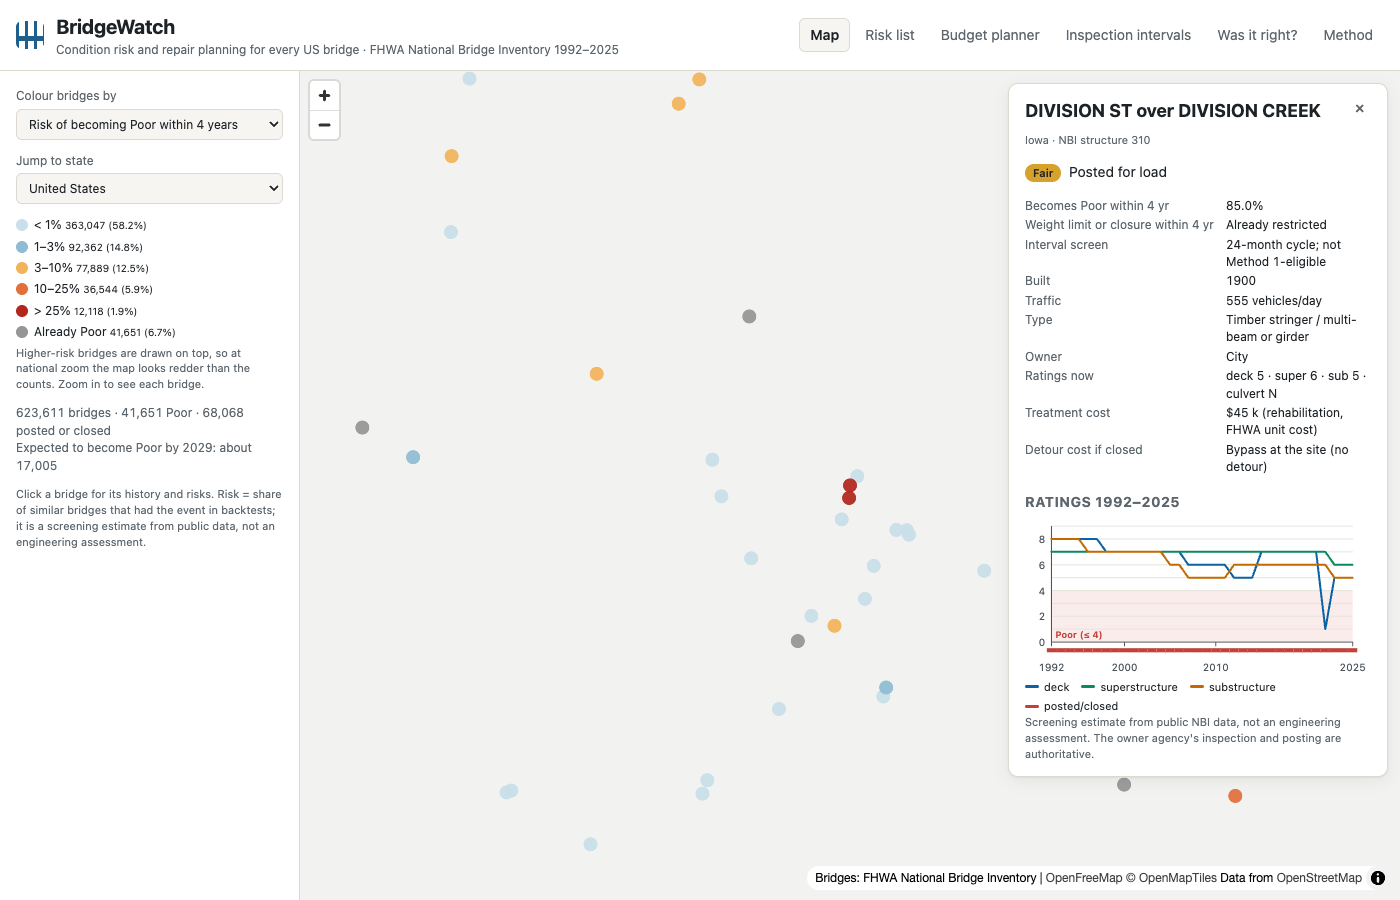
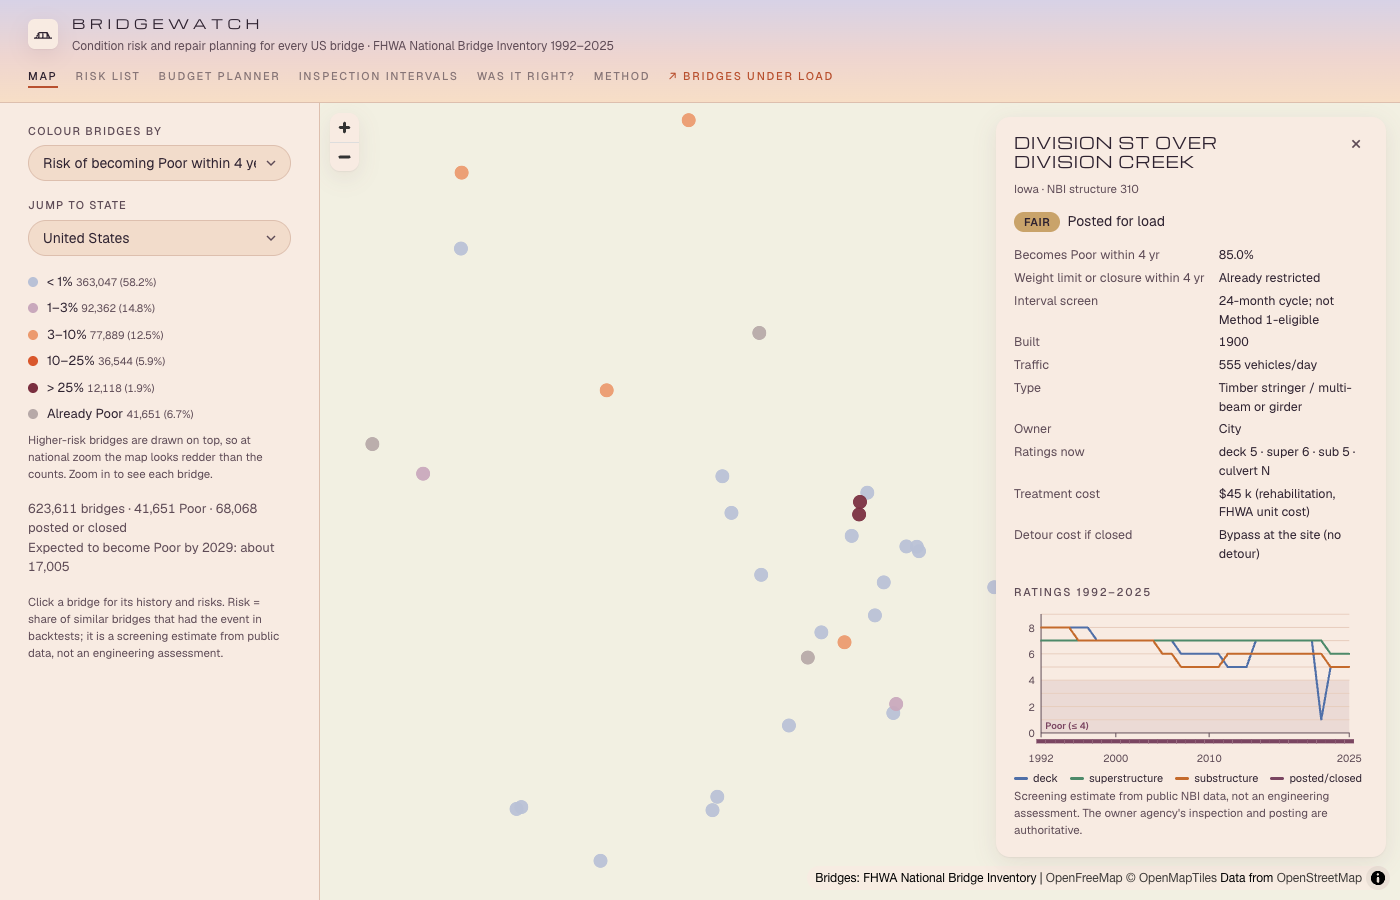
README: Bridges under load section and screenshots of the restyled site

diff --git a/README.md b/README.md
@@ -142,6 +142,31 @@ packages the site for single-page hosting (inline CSS, point file as base64 text
 |---|---|---|
 | ![Map](docs/screenshot-map.png) | ![Detail](docs/screenshot-detail.png) | ![Planner](docs/screenshot-plan.png) |
 
+## Bridges under load
+
+`web/bridges.html` rebuilds 11 historic bridges (of a target set of 20) from their Historic American Engineering Record drawings
+and their engineers' reports, then solves them in the page as the visitor moves the load. Every member size is tagged stated,
+measured or assumed.
+
+- **8 trusses** (Kelley Crossing, Bridge L5245, Walnut Street, Slate Run, Nicholson, Old Corinth Road, Whetstone Creek, Cooper's
+  tubular arch): a plane pin-jointed truss by direct stiffness, with rods that can only pull. Drag an H-truck across or add a
+  crowd; members are coloured by share of yield.
+- **3 suspension spans** (Golden Gate, George Washington, Tacoma Narrows 1940): Melan deflection theory for the cable and its
+  stiffening truss, including the side-span cables. Each is checked against the deflections the engineers published, with Show
+  buttons for the loading behind each figure.
+
+```bash
+uv run bridgewatch sim   # writes web/data/tier2/ and reports/sim.md; needs no NBI download
+```
+
+The same solver runs in Python (`src/bridgewatch/sim/`) and in the browser (`web/bridges/solver.js`); `tests/test_sim_js.py`
+checks they agree. These are teaching models built from public records, not load ratings. Sources, selection rules and the
+validation table are in [TIER2.md](TIER2.md).
+
+| A truss: Kelley Crossing | A suspension span: Golden Gate |
+|---|---|
+| ![Kelley Crossing](docs/screenshot-bridges.png) | ![Golden Gate](docs/screenshot-span.png) |
+
 ## Quick start
 
 ```bash
